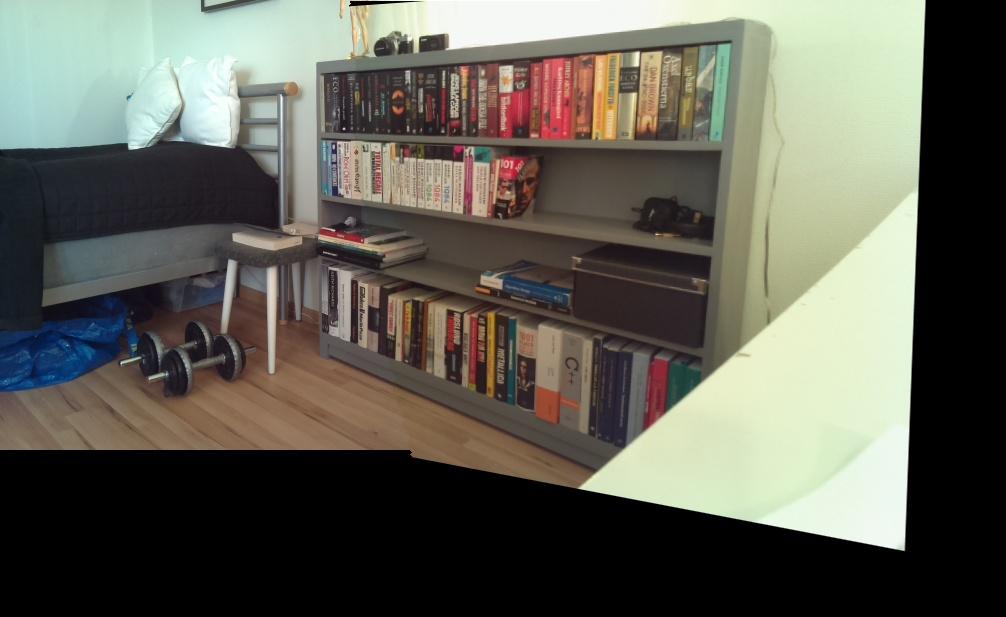
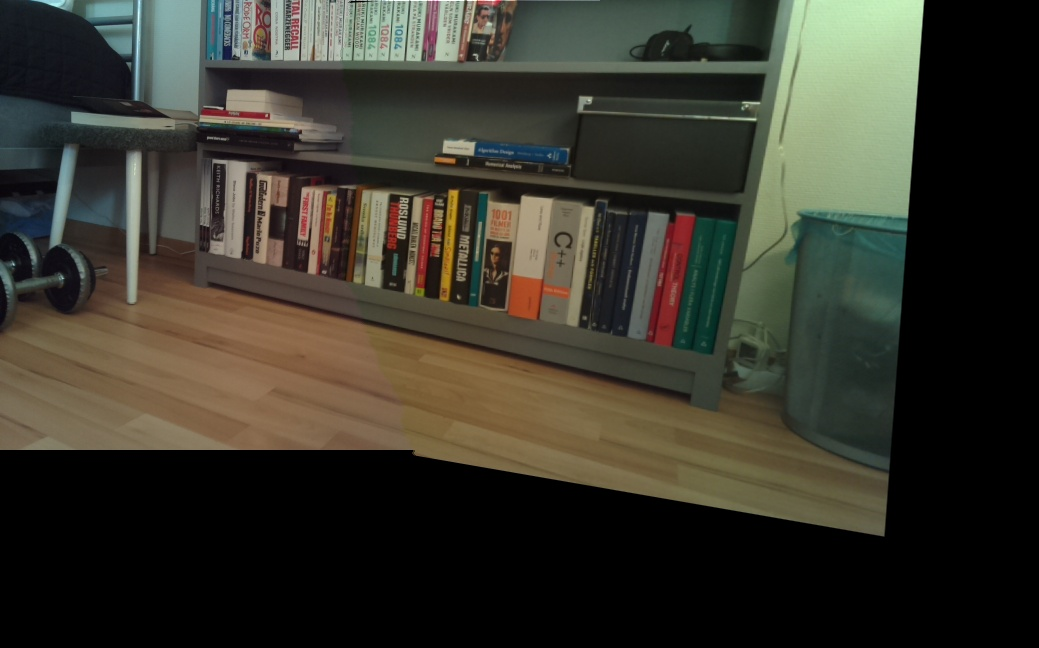
new stitch

diff --git a/matching.py b/matching.py
@@ -49,7 +49,7 @@ def matches(img1,img2):
 		img2p[1][i] = m[0][1]
 		i += 1		
 	
-	H,inliers,inliers2 = ransac(img1p,img2p,35,5.0)
+	H,inliers,inliers2 = ransac(img1p,img2p,40,4.0)
 	return img1_pts, img2_pts, inliers, inliers2, H
 
 
@@ -80,8 +80,8 @@ def plot_inliers(img1, img1pts, inliers1, img2, img2pts, inliers2):
 
 
 # Test code	
-img1 = cv2.imread('bilds/test22.jpg')
-img2 = cv2.imread('bilds/test11.jpg') 
+img1 = cv2.imread('bilds/book2.jpg')
+img2 = cv2.imread('bilds/book1.jpg') 
 img1 = img1[:, :, ::-1]
 img2 = img2[:, :, ::-1]
 # Call matches for extracting inliers and homography

diff --git a/blender.py b/blender.py
@@ -49,9 +49,29 @@ def stitch(A,B,source):
 	row,col = A.shape[:2]
 	seam = _find_vertical_seam(A,B,source)
 
+	mean = []
 	for p in seam:
 		A[p[1],p[0]:col-1] = 0
 		B[p[1],0:p[0]] = 0
+		mean.append(A[p[1],p[0]-1:p[0]])
+		mean.append(B[p[1],p[0]:p[0]+1])
+		M = [0,0,0]
+		for sub in mean:
+			
+			for m in sub:
+				M += m 		
+				
+		
+		M /= 2
+		
+		
+		A[p[1],p[0]-1:p[0]] = M
+		B[p[1],p[0]:p[0]+1] = M
+
+		
+		mean = []
+	
+
 
 	C = cv2.add(A,B)
 	plt.imshow(C)
